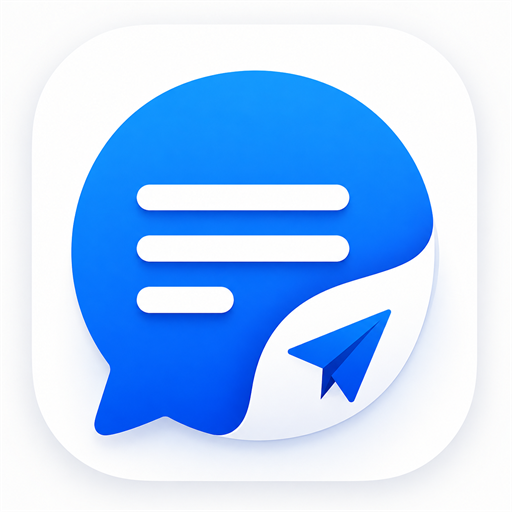
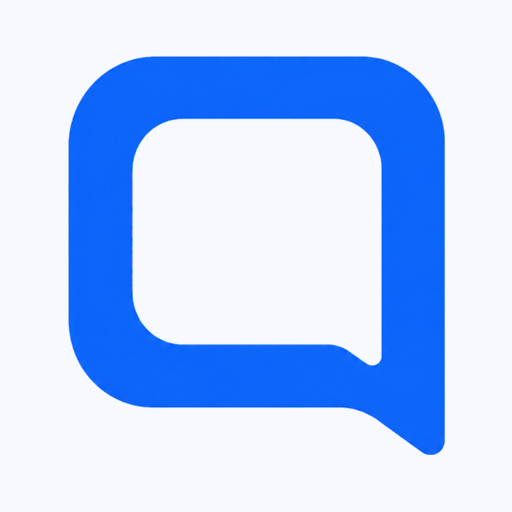
Finalize app branding, themes, and onboarding design

diff --git a/app/src/main/java/com/atul/messageapp/ui/permission/PermissionScreen.kt b/app/src/main/java/com/atul/messageapp/ui/permission/PermissionScreen.kt
@@ -6,14 +6,34 @@ import androidx.activity.compose.rememberLauncherForActivityResult
 import androidx.activity.result.contract.ActivityResultContracts
 import androidx.compose.foundation.layout.Arrangement
 import androidx.compose.foundation.layout.Column
+import androidx.compose.foundation.layout.Row
 import androidx.compose.foundation.layout.fillMaxSize
+import androidx.compose.foundation.layout.fillMaxWidth
+import androidx.compose.foundation.layout.height
+import androidx.compose.foundation.layout.padding
+import androidx.compose.foundation.layout.size
+import androidx.compose.foundation.layout.widthIn
+import androidx.compose.foundation.rememberScrollState
+import androidx.compose.foundation.shape.RoundedCornerShape
+import androidx.compose.foundation.verticalScroll
+import androidx.compose.material.icons.Icons
+import androidx.compose.material.icons.filled.Check
 import androidx.compose.material3.Button
+import androidx.compose.material3.Card
+import androidx.compose.material3.CardDefaults
+import androidx.compose.material3.Icon
+import androidx.compose.material3.MaterialTheme
 import androidx.compose.material3.Text
 import androidx.compose.runtime.Composable
 import androidx.compose.ui.Alignment
 import androidx.compose.ui.Modifier
+import androidx.compose.ui.layout.ContentScale
 import androidx.compose.ui.platform.LocalContext
+import androidx.compose.ui.res.painterResource
+import androidx.compose.ui.text.style.TextAlign
+import androidx.compose.ui.unit.dp
 import androidx.core.content.ContextCompat
+import com.atul.messageapp.R
 import com.atul.messageapp.sms.DefaultSmsManager
 
 @Composable
@@ -61,14 +81,84 @@ fun PermissionScreen(
         }
 
     Column(
-        modifier = Modifier.fillMaxSize(),
-        verticalArrangement = Arrangement.Center,
+        modifier = Modifier
+            .fillMaxSize()
+            .verticalScroll(rememberScrollState())
+            .padding(horizontal = 24.dp, vertical = 32.dp),
+        verticalArrangement = Arrangement.spacedBy(24.dp),
         horizontalAlignment = Alignment.CenterHorizontally
     ) {
+        androidx.compose.foundation.Image(
+            painter = painterResource(R.drawable.message_logo_symbol),
+            contentDescription = "Message App logo",
+            modifier = Modifier.size(112.dp),
+            contentScale = ContentScale.Fit
+        )
 
-        Text("Set this app as your default SMS app to continue")
+        Column(
+            horizontalAlignment = Alignment.CenterHorizontally,
+            verticalArrangement = Arrangement.spacedBy(10.dp)
+        ) {
+            Text(
+                text = "Make Message App your default SMS app",
+                style = MaterialTheme.typography.headlineSmall,
+                textAlign = TextAlign.Center,
+                color = MaterialTheme.colorScheme.onBackground
+            )
+            Text(
+                text = "Continue sending, receiving, searching, scheduling and managing all your SMS securely in one place.",
+                style = MaterialTheme.typography.bodyLarge,
+                textAlign = TextAlign.Center,
+                color = MaterialTheme.colorScheme.onSurfaceVariant
+            )
+        }
+
+        Card(
+            modifier = Modifier.fillMaxWidth(),
+            shape = RoundedCornerShape(20.dp),
+            colors = CardDefaults.cardColors(
+                containerColor = MaterialTheme.colorScheme.surfaceContainerLow
+            )
+        ) {
+            Column(
+                modifier = Modifier.padding(horizontal = 18.dp, vertical = 10.dp),
+                verticalArrangement = Arrangement.spacedBy(2.dp)
+            ) {
+                listOf(
+                    "Send & Receive SMS",
+                    "Smart Search",
+                    "Schedule Messages",
+                    "Archive • Star • Block"
+                ).forEach { feature ->
+                    Row(
+                        modifier = Modifier
+                            .fillMaxWidth()
+                            .padding(vertical = 9.dp),
+                        verticalAlignment = Alignment.CenterVertically
+                    ) {
+                        Icon(
+                            imageVector = Icons.Default.Check,
+                            contentDescription = null,
+                            modifier = Modifier.size(20.dp),
+                            tint = MaterialTheme.colorScheme.primary
+                        )
+                        Text(
+                            text = feature,
+                            modifier = Modifier.padding(start = 14.dp),
+                            style = MaterialTheme.typography.bodyLarge,
+                            color = MaterialTheme.colorScheme.onSurface
+                        )
+                    }
+                }
+            }
+        }
 
         Button(
+            modifier = Modifier
+                .fillMaxWidth()
+                .widthIn(max = 360.dp)
+                .height(52.dp),
+            shape = RoundedCornerShape(16.dp),
             onClick = {
 
                 if (defaultSmsManager.isDefaultSmsApp()) {

diff --git a/app/src/main/java/com/atul/messageapp/ui/home/HomeScreen.kt b/app/src/main/java/com/atul/messageapp/ui/home/HomeScreen.kt
@@ -14,6 +14,7 @@ import androidx.compose.foundation.layout.fillMaxWidth
 import androidx.compose.foundation.layout.height
 import androidx.compose.foundation.layout.padding
 import androidx.compose.foundation.layout.size
+import androidx.compose.foundation.layout.width
 import androidx.compose.foundation.lazy.LazyColumn
 import androidx.compose.foundation.lazy.items
 import androidx.compose.foundation.lazy.rememberLazyListState
@@ -68,6 +69,7 @@ import androidx.compose.ui.graphics.asImageBitmap
 import androidx.compose.ui.layout.ContentScale
 import androidx.compose.foundation.layout.navigationBarsPadding
 import androidx.compose.ui.platform.LocalContext
+import androidx.compose.ui.platform.LocalConfiguration
 import androidx.compose.ui.platform.LocalFocusManager
 import androidx.compose.ui.platform.LocalSoftwareKeyboardController
 import androidx.compose.ui.res.painterResource
@@ -98,6 +100,8 @@ fun HomeScreen(
 ) {
     val homeViewModel: HomeViewModel = viewModel()
     val context = LocalContext.current
+    val configuration = LocalConfiguration.current
+    val drawerWidth = (configuration.screenWidthDp.dp * 0.6f).coerceIn(240.dp, 360.dp)
     val focusManager = LocalFocusManager.current
     val keyboardController = LocalSoftwareKeyboardController.current
     val lifecycleOwner = LocalLifecycleOwner.current
@@ -224,7 +228,10 @@ fun HomeScreen(
         drawerState = drawerState,
         gesturesEnabled = canInteract && !selectionMode,
         drawerContent = {
-            ModalDrawerSheet {
+            ModalDrawerSheet(
+                modifier = Modifier.width(drawerWidth),
+                drawerContainerColor = MaterialTheme.colorScheme.surface
+            ) {
                 DrawerHeader()
                 HorizontalDivider(Modifier.padding(horizontal = 16.dp))
                 Spacer(Modifier.height(10.dp))
@@ -389,8 +396,8 @@ private fun DrawerHeader() {
             contentAlignment = Alignment.Center
         ) {
             Image(
-                painter = painterResource(R.drawable.message_app_logo),
-                contentDescription = "Message App logo",
+                painter = painterResource(R.drawable.message_logo_symbol),
+                contentDescription = "MESSAGE logo",
                 modifier = Modifier.size(48.dp),
                 contentScale = ContentScale.Fit
             )

diff --git a/app/src/main/java/com/atul/messageapp/theme/Theme.kt b/app/src/main/java/com/atul/messageapp/theme/Theme.kt
@@ -8,18 +8,57 @@ import androidx.compose.material3.dynamicDarkColorScheme
 import androidx.compose.material3.dynamicLightColorScheme
 import androidx.compose.material3.lightColorScheme
 import androidx.compose.runtime.Composable
+import androidx.compose.ui.graphics.Color
 import androidx.compose.ui.platform.LocalContext
 
 private val LightColorScheme =
-    lightColorScheme()
+    lightColorScheme(
+        primary = MessageBlue,
+        onPrimary = LightBackground,
+        primaryContainer = Color(0xFFDCE8FF),
+        onPrimaryContainer = Color(0xFF002E69),
+        secondary = Color(0xFF4F6387),
+        secondaryContainer = Color(0xFFDCE6FF),
+        onSecondaryContainer = Color(0xFF0A1B38),
+        background = LightBackground,
+        onBackground = LightText,
+        surface = LightSurface,
+        onSurface = LightText,
+        surfaceVariant = LightSurfaceVariant,
+        onSurfaceVariant = LightMutedText,
+        surfaceContainer = LightSurface,
+        surfaceContainerHigh = LightSurfaceVariant,
+        surfaceContainerHighest = Color(0xFFEAECF0),
+        outline = Color(0xFF747981),
+        outlineVariant = LightDivider
+    )
 
 private val DarkColorScheme =
-    darkColorScheme()
+    darkColorScheme(
+        primary = MessageBlueDark,
+        onPrimary = Color(0xFF002F6D),
+        primaryContainer = Color(0xFF08458F),
+        onPrimaryContainer = Color(0xFFD9E6FF),
+        secondary = Color(0xFFB5C8ED),
+        secondaryContainer = Color(0xFF354667),
+        onSecondaryContainer = Color(0xFFDCE6FF),
+        background = DarkBackground,
+        onBackground = DarkText,
+        surface = DarkSurface,
+        onSurface = DarkText,
+        surfaceVariant = DarkSurfaceVariant,
+        onSurfaceVariant = DarkMutedText,
+        surfaceContainer = DarkSurface,
+        surfaceContainerHigh = Color(0xFF20242B),
+        surfaceContainerHighest = DarkSurfaceVariant,
+        outline = Color(0xFF8B919C),
+        outlineVariant = DarkDivider
+    )
 
 @Composable
 fun MessageAppTheme(
     themeMode: ThemeMode,
-    dynamicColor: Boolean = true,
+    dynamicColor: Boolean = false,
     content: @Composable () -> Unit
 ) {
     val systemDarkTheme =

diff --git a/app/src/main/java/com/atul/messageapp/ui/splash/SplashScreen.kt b/app/src/main/java/com/atul/messageapp/ui/splash/SplashScreen.kt
@@ -2,13 +2,10 @@ package com.atul.messageapp.ui.splash
 
 import androidx.compose.foundation.layout.Arrangement
 import androidx.compose.foundation.layout.Column
-import androidx.compose.foundation.layout.Spacer
 import androidx.compose.foundation.layout.fillMaxSize
-import androidx.compose.foundation.layout.height
 import androidx.compose.foundation.layout.size
 import androidx.compose.foundation.Image
 import androidx.compose.material3.Button
-import androidx.compose.material3.MaterialTheme
 import androidx.compose.material3.Text
 import androidx.compose.runtime.Composable
 import androidx.compose.runtime.LaunchedEffect
@@ -18,7 +15,6 @@ import androidx.compose.ui.Modifier
 import androidx.compose.ui.layout.ContentScale
 import androidx.compose.ui.platform.LocalContext
 import androidx.compose.ui.res.painterResource
-import androidx.compose.ui.text.font.FontWeight
 import androidx.compose.ui.unit.dp
 import com.atul.messageapp.R
 import com.atul.messageapp.sms.DefaultSmsManager
@@ -47,32 +43,13 @@ fun SplashScreen(
     ) {
 
         Image(
-            painter = painterResource(R.drawable.message_app_logo),
-            contentDescription = "Message App logo",
-            modifier = Modifier.size(144.dp),
+            painter = painterResource(R.drawable.message_brand_full_transparent),
+            contentDescription = "MESSAGE logo",
+            modifier = Modifier.size(280.dp),
             contentScale = ContentScale.Fit
         )
 
-        Spacer(Modifier.height(24.dp))
-
-        Text(
-            text = "Message App",
-            style = MaterialTheme.typography.headlineMedium,
-            fontWeight = FontWeight.SemiBold,
-            color = MaterialTheme.colorScheme.onBackground
-        )
-
-        Spacer(Modifier.height(8.dp))
-
-        Text(
-            text = "Fast • Secure • Reliable",
-            style = MaterialTheme.typography.bodyMedium,
-            color = MaterialTheme.colorScheme.onSurfaceVariant
-        )
-
         if (!isDefaultSmsApp) {
-            Spacer(Modifier.height(32.dp))
-
             Button(
                 onClick = {
                     onPermissionFlow()

diff --git a/app/src/main/java/com/atul/messageapp/ui/components/ConversationCard.kt b/app/src/main/java/com/atul/messageapp/ui/components/ConversationCard.kt
@@ -15,8 +15,7 @@ import androidx.compose.foundation.layout.padding
 import androidx.compose.foundation.layout.size
 import androidx.compose.foundation.layout.width
 import androidx.compose.foundation.shape.CircleShape
-import androidx.compose.material3.Card
-import androidx.compose.material3.CardDefaults
+import androidx.compose.material3.HorizontalDivider
 import androidx.compose.material3.MaterialTheme
 import androidx.compose.material3.Text
 import androidx.compose.runtime.Composable
@@ -63,34 +62,24 @@ fun ConversationCard(
         ?: conversation.address.firstOrNull { !it.isWhitespace() }?.toString()
         ?: "?"
 
-    Card(
+    Column(
         modifier = Modifier
             .fillMaxWidth()
-            .padding(
-                horizontal = 12.dp,
-                vertical = 5.dp
+            .background(
+                if (selected) MaterialTheme.colorScheme.secondaryContainer
+                else MaterialTheme.colorScheme.surface
             )
             .combinedClickable(
                 onClick = onClick,
                 onLongClick = onLongClick
-            ),
-        colors = CardDefaults.cardColors(
-            containerColor = if (selected) {
-                MaterialTheme.colorScheme.secondaryContainer
-            } else {
-                MaterialTheme.colorScheme.surfaceVariant
-            }
-        ),
-        elevation = CardDefaults.cardElevation(
-            defaultElevation = 1.dp
-        )
+            )
     ) {
         Row(
             modifier = Modifier
                 .fillMaxWidth()
                 .padding(
-                    horizontal = 12.dp,
-                    vertical = 10.dp
+                    horizontal = 16.dp,
+                    vertical = 12.dp
                 ),
             verticalAlignment = Alignment.CenterVertically
         ) {
@@ -217,5 +206,9 @@ fun ConversationCard(
                 }
             }
         }
+        HorizontalDivider(
+            modifier = Modifier.padding(start = 66.dp),
+            color = MaterialTheme.colorScheme.outlineVariant
+        )
     }
 }

diff --git a/app/src/main/java/com/atul/messageapp/theme/Color.kt b/app/src/main/java/com/atul/messageapp/theme/Color.kt
@@ -1,2 +1,21 @@
 package com.atul.messageapp.theme
 
+import androidx.compose.ui.graphics.Color
+
+val MessageBlue = Color(0xFF0B63F6)
+val MessageBlueDark = Color(0xFF8BB6FF)
+
+val LightBackground = Color(0xFFFFFFFF)
+val LightSurface = Color(0xFFFFFFFF)
+val LightSurfaceVariant = Color(0xFFF3F4F6)
+val LightDivider = Color(0xFFE1E4E8)
+val LightText = Color(0xFF17191D)
+val LightMutedText = Color(0xFF5E636B)
+
+val DarkBackground = Color(0xFF101216)
+val DarkSurface = Color(0xFF171A1F)
+val DarkSurfaceVariant = Color(0xFF252932)
+val DarkDivider = Color(0xFF373C46)
+val DarkText = Color(0xFFF1F3F5)
+val DarkMutedText = Color(0xFFB8BEC8)
+
